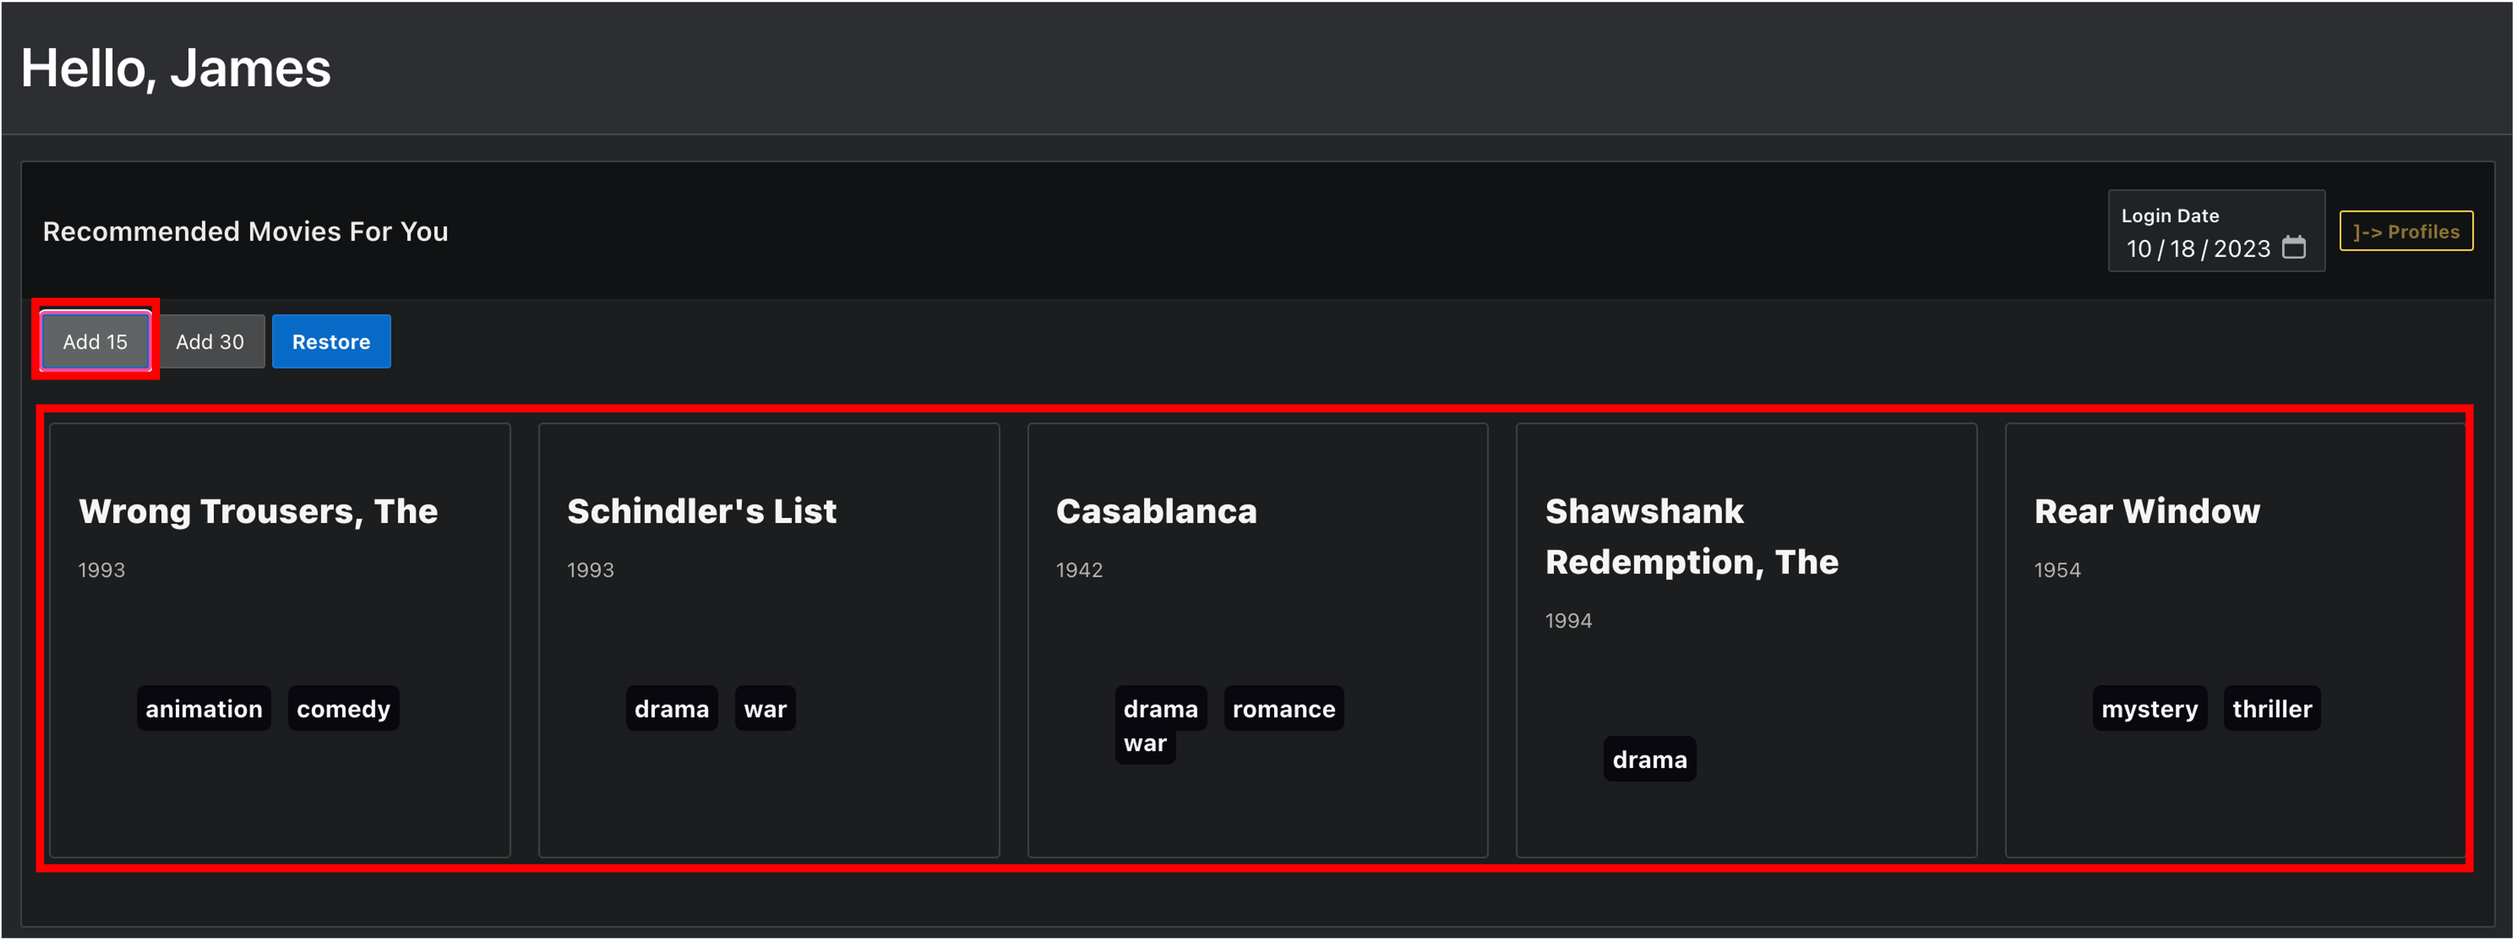
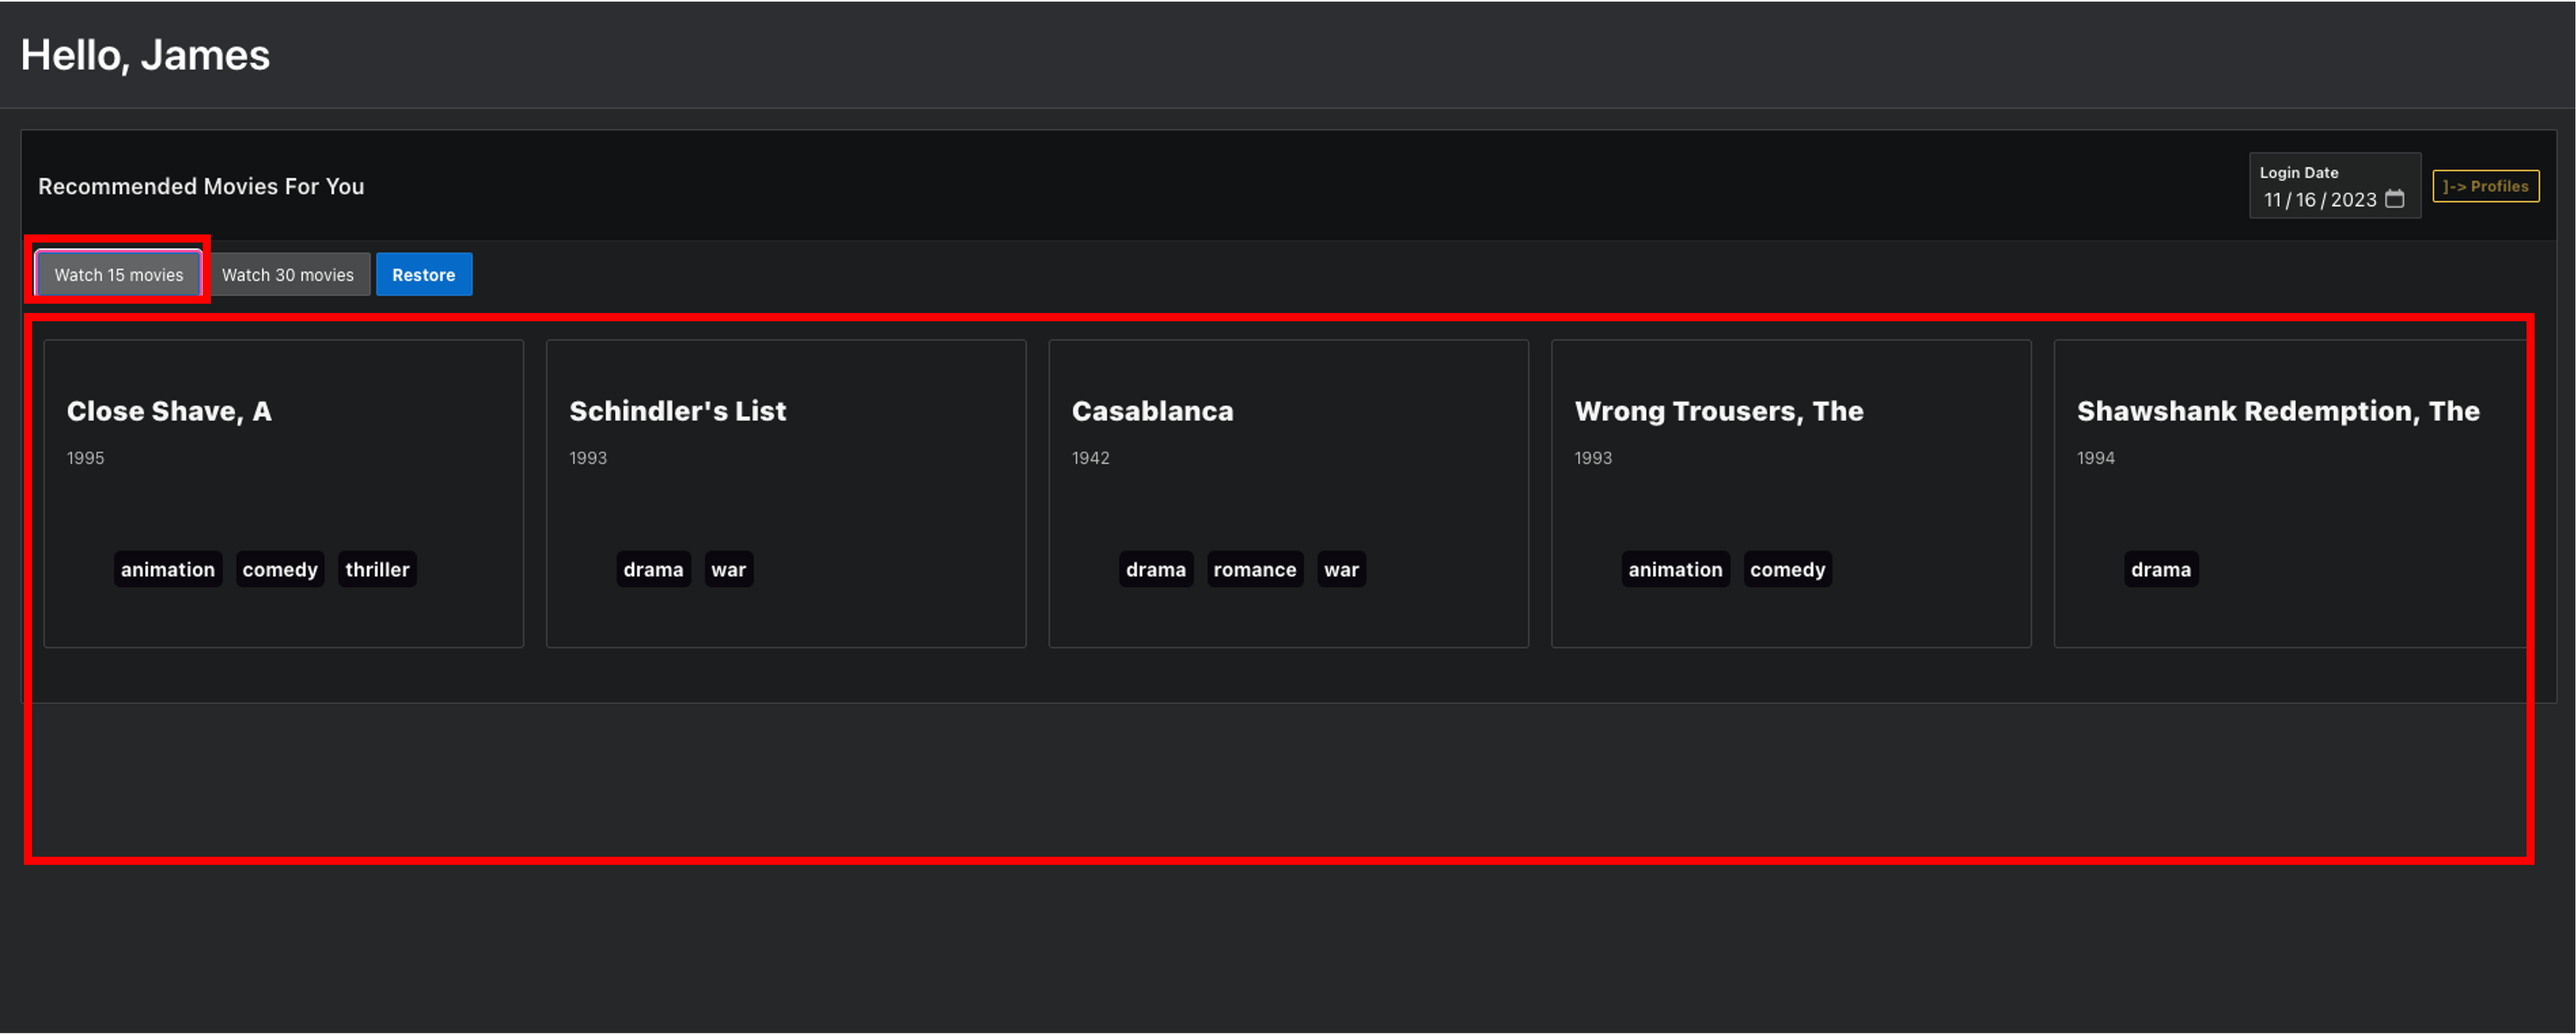
LWMS ID 11507 Update Instrucions Lab 11
Update instructions and images lab 11

diff --git a/heatwave-movie-stream/develop-moviehub-apex-app/develop-moviehub-apex-app.md b/heatwave-movie-stream/develop-moviehub-apex-app/develop-moviehub-apex-app.md
@@ -62,7 +62,7 @@ In this lab, you will be guided through the following task:
 
     a. The **My Profiles** page will open, with the current account profiles in the app
 
-    ![MovieHub Profiles page](./images/moviehub-profiles-page.png =50%x* "moviehub-profiles-page ")
+    ![MovieHub Profiles page](./images/moviehub-profiles-page.png "moviehub-profiles-page ")
 
     b. At any time, You can log out. This action will return you to the home page
 
@@ -74,9 +74,11 @@ In this lab, you will be guided through the following task:
 
     a. Go to the profiles page
 
-    ![James profile button](./images/moviehub-user1-button.png =30%x* "moviehub-user1-button ")
+    ![MovieHub Profiles page](./images/moviehub-profiles-page2.png "moviehub-profiles-page ")
 
     b. Click the button below James profile
+
+    ![James profile button](./images/moviehub-user1-button.png =30%x* "moviehub-user1-button ")
 
     c. The James movies recommendation page will appear
 
@@ -84,15 +86,15 @@ In this lab, you will be guided through the following task:
 
     The page will have the top 5 recommended movies, according to the "**pred\_user\_21\_0r**" MySQL table. This page is loaded with the **Restore** button as well
 
-3. Explore the movie recommendations when "adding" 15 movie records. **This simulates the action of watching 15 movies from the movie catalog**
+3. Explore the movie recommendations when you add more movie records to the data with "Watch movies" buttons. **This simulates the action of watching 15 and 30 movies from the movie catalog compared with the original data**
 
-    a. Click on **Add 15**
+    a. Click on **Watch 15 movies**
 
     ![James recommendation page plus 15](./images/recommendations-user1-plus15.png "recommendations-user1-plus15 ")
 
     Notice the movie recommendation change. This action will show the top 5 recommended movies, according to the "**pred\_user\_21\_15r**" MySQL table
 
-    b. Click on **Add 30**
+    b. Click on **Watch 30 movies**
 
     ![James recommendation page plus 30](./images/recommendations-user1-plus30.png "recommendations-user1-plus30 ")
 

diff --git a/heatwave-movie-stream/create-automl/create-automl.md b/heatwave-movie-stream/create-automl/create-automl.md
@@ -193,11 +193,11 @@ In this lab, you will be guided through the following task:
 
     g. Hit **ENTER** to execute the last command
 
-## Task 6: Predict a ROWS with different trained models
+## Task 6: Predict individual ROWS with the different trained models
 
 1. Test the model to predict the TOP 3 items recommended for a given user.
 
-    a. Predict a ROW with the 3 models. Top 3 recommended items for the user '600'
+    a. Predict a ROW with each of the 3 models. Top 3 recommended items for the user '600'
 
     ```bash
     <copy>
